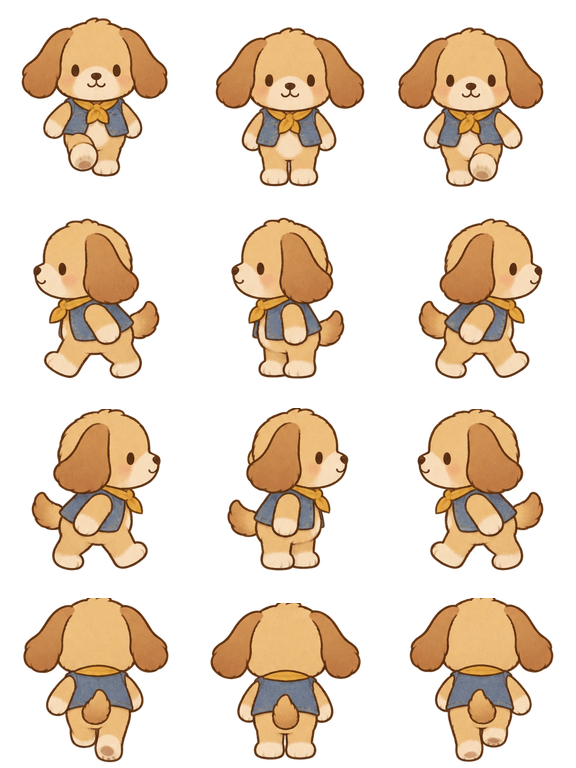
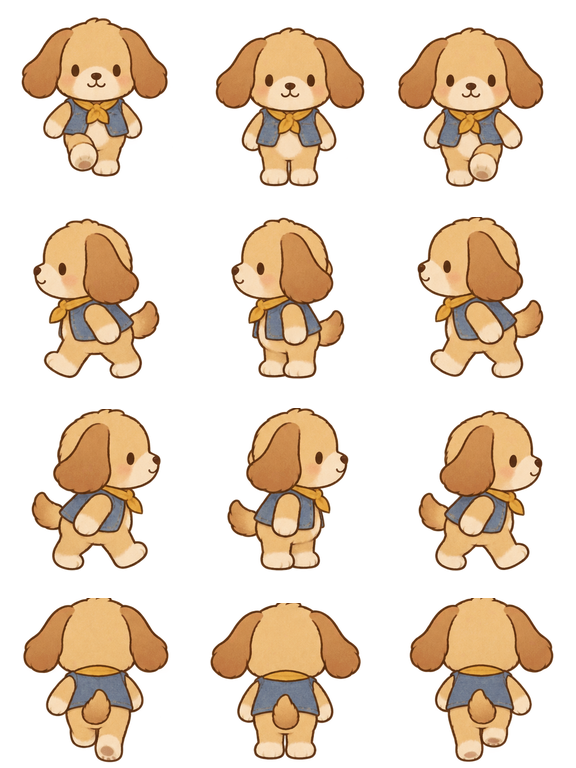
第一章鏡之屋室內美術（ComfyUI＋ControlNet＋IP-Adapter）、修正小狗行走圖朝向
- art/int_mirror.jpg：依熱點畫線稿 → ControlNet 鎖構圖、IP-Adapter 參考露露家的畫風；
  縫死的鏡子補縫線，投信口的籃子與書桌上那疊很高的紙用局部重畫對齊劇本
- art/walk_puppy.png：朝左、朝右兩列的第三格朝向畫反了，兩格對調
- 貓居民行走圖試了兩輪仍達不到委託圖品質，沒有放進遊戲（記錄在 docs/art_generated.md）

Claude-Session: https://claude.ai/code/session_019xJktu5FgJTgLTgH47hrmp

Changed region(s): [[0.7188, 0.5312, 0.9688, 0.75], [0.7188, 0.2812, 0.9688, 0.5]]

diff --git a/docs/art_generated.md b/docs/art_generated.md
@@ -7,16 +7,22 @@
 | `game/art/ch2/characters/portraits/ch2_fen_portrait_a_default.png` | 第二章 Fen 立繪（預設：皺眉） | 白面立繪 `ch2_baimian_portrait_a_still.png` 依亮度換成 Fen 的配色 → ComfyUI img2img（強度 0.45）加上布偶質感與補丁 → 用白面的輪廓去背 |
 | `game/art/ch2/characters/portraits/ch2_fen_portrait_a_away.png` | 第二章 Fen 立繪（看向別處；結尾火車 `@face Fen away`） | 同上，底圖 `ch2_baimian_portrait_a_faraway.png`（強度 0.42） |
 | `game/art/ch2/characters/sprites/ch2_fen_sprite_stand_sheet.png` | 第二章河對岸的 Fen 地圖小人 | 白面站姿小人換色（沒有用 AI 重繪；**沒有尾巴**，因為底圖是白面） |
+| `game/art/int_mirror.jpg` | 第一章鏡之屋室內（1280×720） | 依熱點位置畫的線稿（三面蓋布的鏡子改畫成「布垂下來」的形狀，避免變成門）→ ControlNet（union, lineart）鎖構圖＋ IP-Adapter（style transfer）參考 `int_lulu.jpg` 的畫風 → 縫死的鏡子手工補縫線 → 投信口的籃子、書桌上那疊很高的紙用局部重畫（inpaint）對齊劇本 |
+
+另外修正：`game/art/walk_puppy.png` 第 2、3 列（朝左、朝右）的第三格朝向畫反了，兩格對調（原圖在 Git 歷史裡）。
 
 設定依據：白面是從 Fen 身上剝離出來的那一半，兩隻狐狸是同一個身體（`docs/script/chapter2.md` 2.1），所以用白面的圖當底。
 
 ## 工具與授權
 - ComfyUI 0.42（GPL-3.0；只用來產圖，產出的圖不受 GPL 約束）
+- comfyui_controlnet_aux（Apache-2.0）、comfyui-ipadapter（Comfy Org 分支，GPL-3.0；同上，只是工具）
 - 模型：Stable Diffusion XL 1.0 base（CreativeML Open RAIL++-M，可商用）＋ SDXL-Lightning 4 步 LoRA（ByteDance，OpenRAIL++，可商用）
-- 在雲端 CPU 上執行（沒有 GPU），每張約 4 分鐘
+- ControlNet：xinsir/controlnet-union-sdxl-1.0（promax，Apache-2.0）
+- IP-Adapter：h94/IP-Adapter `ip-adapter-plus_sdxl_vit-h` ＋ ViT-H 影像編碼器（Apache-2.0）
+- 在雲端 CPU 上執行（沒有 GPU），每張約 4 分鐘；SDXL＋ControlNet＋IP-Adapter 一起跑超過 15GB 記憶體，要把主模型存成 fp8 才跑得動
 
 ## 試過但不能用的
 | 項目 | 結果 | 缺少的工具 |
 |---|---|---|
-| 第一章貓居民的走路圖（12 格） | 從小狗的走路圖重繪，耳朵一直是狗的垂耳；調高強度 12 格就對不起來 | ControlNet（OpenPose／lineart）鎖定姿勢、IP-Adapter 參考 `face_cat.png` 的長相 |
-| 第一章鏡之屋室內 | 蓋布的鏡子變成門、縫起來的鏡子沒有縫線，畫風和其他小屋不一致 | ControlNet（depth／lineart）鎖構圖、IP-Adapter 參考其他小屋的畫風 |
+| 第一章貓居民的走路圖（12 格） | 第一輪：img2img 耳朵一直是狗的垂耳。第二輪（有 ControlNet＋IP-Adapter）：小狗圖換色、手畫尖耳和長尾巴當底，逐列重畫——正面勉強像貓，但側面耳朵像角、筆觸髒，背面被 IP-Adapter 畫上了臉。達不到委託圖的品質，**沒有放進遊戲**（貓居民目前也不在地圖上） | 用委託的行走圖訓練的角色／畫風 LoRA（需要 GPU）；或請繪師畫。SDXL 在 192px 小格子上本來就弱 |
+| 第一章鏡之屋室內（第一輪） | 蓋布的鏡子變成門、畫風不一致 | 已用 ControlNet＋IP-Adapter 解決（見上表） |
